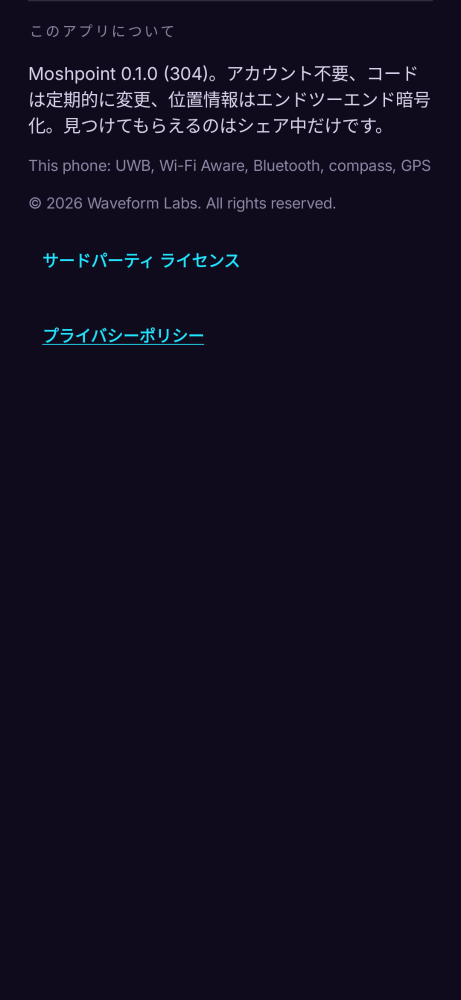
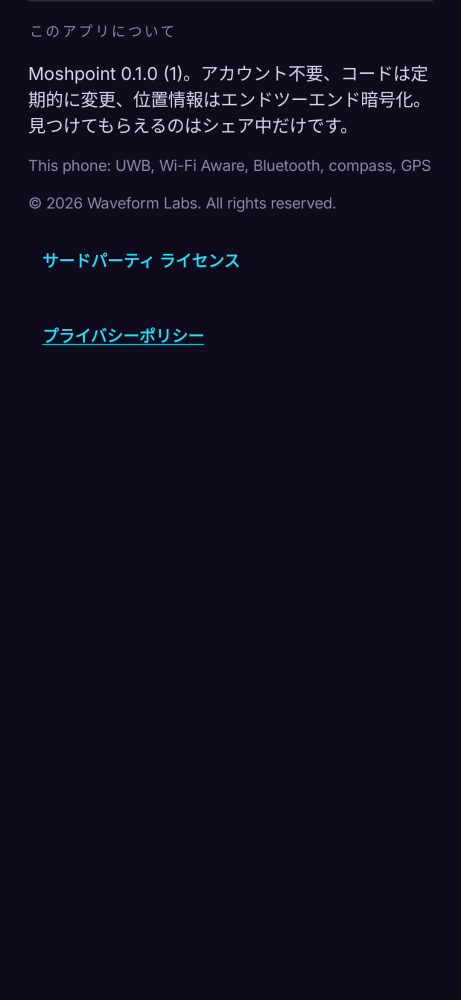
Update screenshots for d58062f; wave 2b handover: final run 306 green, results [skip ci]
Run 306's own docs/screenshots commit lost a rebase to run 304's (both changed settingsAbout,
a binary conflict the step's continue-on-error hides), so its five settingsAbout images are
copied from its ui-screenshots-claude-play-store-security set (ef23ade). Every other image
already matched. docs/WAVE2_PLAY.md: the final status, results and the CI quirk.

Claude-Session: https://claude.ai/code/session_01Sw3Y2VBBEjsU7aChQH79bp

Changed region(s): [[0.0607, 0.062, 0.9414, 0.155]]

diff --git a/docs/WAVE2_PLAY.md b/docs/WAVE2_PLAY.md
@@ -8,36 +8,39 @@ and Live) runs in parallel; wave 2c (battery) and 2d (Report and Block) come lat
 ## Status and next steps (handover)
 
 _Keep this section current: whoever picks this up next starts here. Last updated 15 November
-2026, 23:40 UTC._
+2026, 23:45 UTC._
 
-- **Done (code):** items 1–4 and 6–12 below; item 5 was dropped by the owner (the refusal was
-  built, then removed again). **Done (docs):** ANDROID_16.md, BLUETOOTH_UUIDS.md, PLAY_STORE.md
-  (Data safety corrected, Play Console answers), PRIVACY.md, FIELD_TEST_PLAN.md section 4g,
-  this note.
+- **Done.** Code: items 1–4 and 6–12 below; item 5 was dropped by the owner (the refusal was
+  built, then removed again). Docs: ANDROID_16.md, BLUETOOTH_UUIDS.md, PLAY_STORE.md (Data
+  safety corrected, Play Console answers), PRIVACY.md, FIELD_TEST_PLAN.md section 4g,
+  SERVER_PRODUCTION.md's app follow-ups, this note.
+- **Final CI: run 306 (d58062f), green**
+  (https://github.com/TheZombieRobot/Diet/actions/runs/43772437390): translations, core and
+  server tests, debug and release builds, the 16 KB check (phone and watch), screenshots, the
+  watch. Against `origin/ui-screenshots`: 252 added (the 12 new screens × 21 languages), none
+  modified or deleted. Manifest: exactly the six intended removals (below). Licences: only
+  MapLibre 11.5.2 → 11.8.1. `origin/ccr-5839ed7c-1q0ztj` is merged in (e3d1b49; nothing newer).
 - **Course change (15 November, from the coordinating session):** item 5 dropped; item 4's relay
-  rule is now "release builds follow an invite only to one of their own relays"
+  rule is "release builds follow an invite only to one of their own relays"
   (`RelayClient.ownRelays`); Settings' relay example is `https://<app>.fly.dev`; PRIVACY.md has
-  Fly's one-day snapshots. `origin/ccr-5839ed7c-1q0ztj` is merged in (e3d1b49).
-- **CI so far:** run 300 (toolchain) green with every build, the 16 KB check and the manifest
-  diff as intended, but every screenshot test failed on API 36 (Paparazzi). Run 302 fixed the
-  start-up (a test-only `android.os.Build`, ANDROID_16.md) but drew blank screens; df41ff3 drew
-  them all: 252 added (12 new screens × 21 languages), 0 modified, 0 deleted against
-  `origin/ui-screenshots`.
-- **Screens reviewed (df41ff3's run, every new screen in every language):** two problems, both
-  fixed after it: on a small phone with a large font the French "Rejoindre" and "Continuer" broke
-  mid-word (the two dialog buttons now stack, the confirming one on top, when both don't fit:
-  `PlayDialogs.Buttons`), and `settingsAbout` showed CI's build number, which changes every run
-  (the test now passes a fixed version). Fine as they are: on a small phone with a large font
-  the welcome's second step and the disclosure's points scroll (by design), so the privacy link
-  is below the fold there; tablets in landscape show the phone layout full width, nothing cut.
-- **Next steps, in order:**
-  1. The final run: green; the comparison in "Checking" still only 252 `A` lines; the disclosure
-     screens redrawn with the new relay line, and French stacked buttons on the small phone with
-     a large font (look at every language, small phone and large font, tablet).
-  2. Report to the coordinating session (session_01Sw3Y2WCFVzhNwUVdFGVbRq) with send_message.
-- **If CI's screenshot step fails again:** it's `continue-on-error`, so the run stays green;
-  look at the size of the files on the `ui-screenshots-…` branch, and at the job log's
-  "=== failing screenshot tests ===" lines.
+  Fly's one-day snapshots.
+- **Screens reviewed, every new screen in every language** (normal phone, small phone with a
+  large font, tablet): two problems found in run 303 and fixed: the French "Rejoindre" and
+  "Continuer" broke mid-word on a small phone with a large font (the dialog buttons now stack,
+  the confirming one on top, when both don't fit: `PlayDialogs.Buttons`), and `settingsAbout`
+  showed CI's build number, which changes every run (the test passes a fixed version). Fine as
+  they are: on a small phone with a large font the welcome's second step and the disclosure's
+  points scroll, so the privacy link is below the fold there; tablets in landscape show the
+  phone layout full width, nothing cut off.
+- **CI quirk, for whoever owns android.yml:** when two queued runs on one branch both change the
+  same image in `docs/screenshots`, the second run's commit can't rebase (a binary conflict) and
+  the step's `continue-on-error` hides it. It happened to run 306 (`settingsAbout`, whose build
+  number changed between runs 303 and 304); its five images were copied by hand from its own
+  `ui-screenshots-claude-play-store-security` set. The all-language branch is force-pushed, so
+  it's always right.
+- **Next:** merge into `ccr-5839ed7c-1q0ztj` (the coordinating session decides when; see
+  "Merging with wave 2a"), then the field tests in FIELD_TEST_PLAN.md section 4g and the owner
+  to-dos at the end of this note.
 
 ## What changed, item by item
 
@@ -184,7 +187,8 @@ hours" for moments is "within 24 hours" in every language.
 
 ## Intended manifest changes
 
-From CI's "Merged manifest and licence list, compared with the published main build" (run 302):
+From CI's "Merged manifest and licence list, compared with the published main build" (runs 302,
+304 and 306, the same each time):
 
 ```
 < provider name=com.facebook.internal.FacebookInitProvider exported=false authorities=nz.waveformlabs.moshpoint.FacebookInitProvider
@@ -195,7 +199,7 @@ From CI's "Merged manifest and licence list, compared with the published main bu
 < uses-permission name=com.google.android.gms.permission.AD_ID
 ```
 
-Only removals, nothing added. Licence list: `org.maplibre.gl:android-sdk`
+Only removals, nothing added: 69 → 63 entries. Licence list: `org.maplibre.gl:android-sdk`
 11.5.2 → 11.8.1, nothing else. (Target SDK isn't in that report; `aapt2 dump badging` shows it.)
 
 ## Intended screenshot changes
